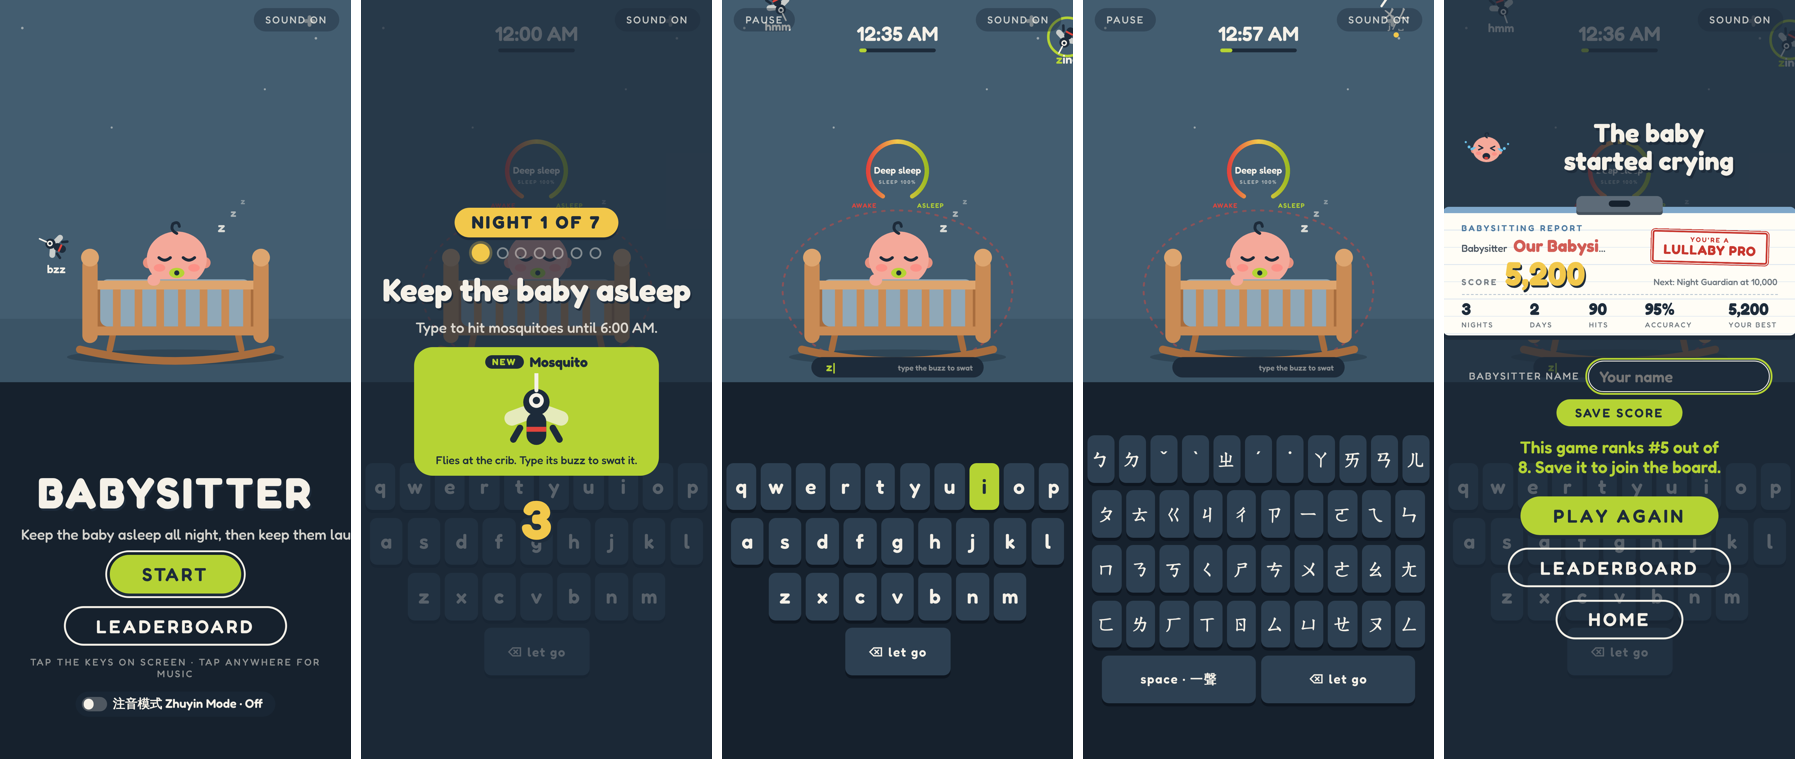
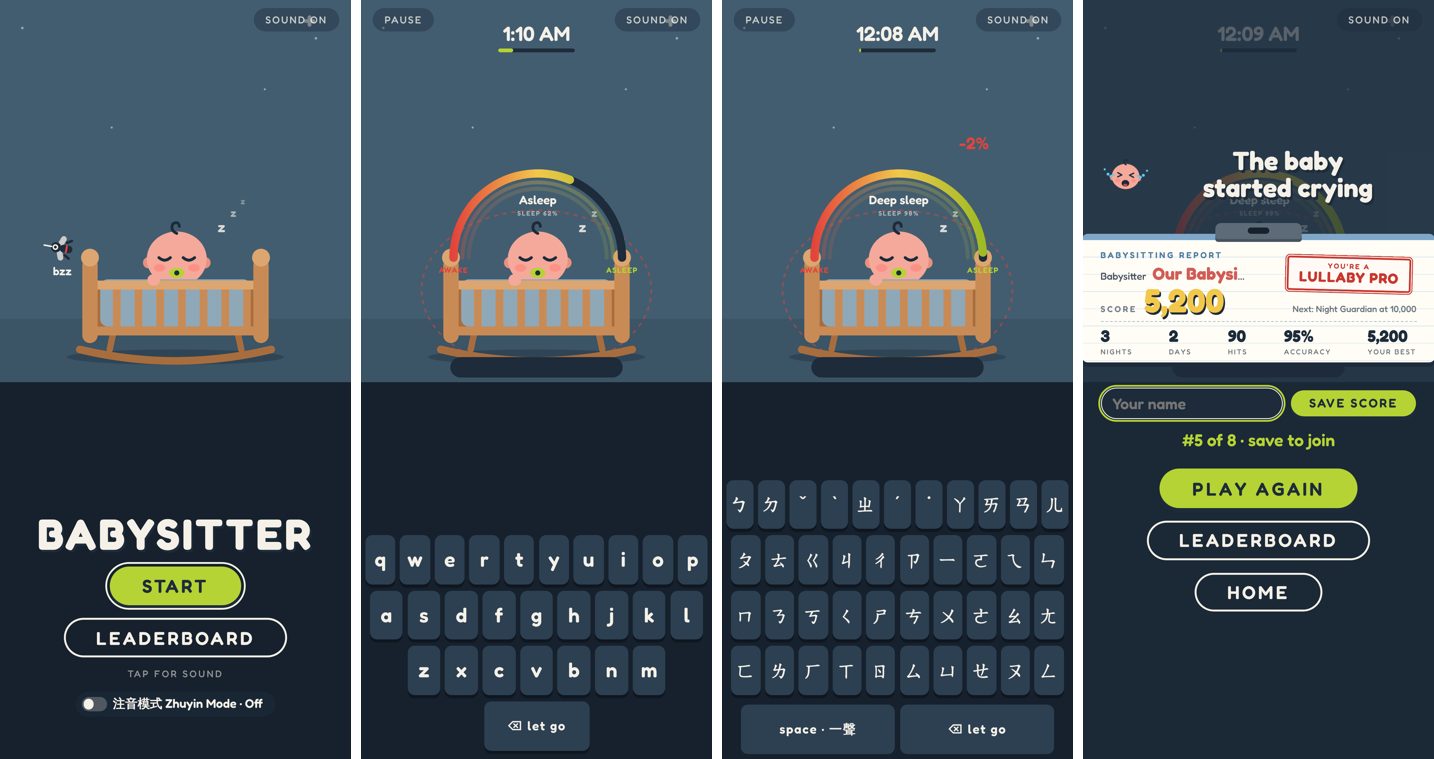
interface updated
interface updated

diff --git a/js/game.js b/js/game.js
@@ -142,13 +142,28 @@ const G = {
 };
 
 /* ---------- gauge ---------- */
-const R = 46;
+// On phones the meter is a rainbow arching over the crib; on computers it's a ring above the baby.
+const R = MOBILE ? 132 : 46;
 function arcPoint(deg) { const a = deg * Math.PI / 180; return [R * Math.cos(a), R * Math.sin(a)]; }
 function arcPath(frac) {
   frac = Math.max(0.001, Math.min(1, frac));
-  const start = 120, sweep = 300 * frac;
+  const start = MOBILE ? 180 : 120, sweep = (MOBILE ? 180 : 300) * frac;
   const [x1, y1] = arcPoint(start), [x2, y2] = arcPoint(start + sweep);
   return `M${x1.toFixed(2)} ${y1.toFixed(2)} A${R} ${R} 0 ${sweep > 180 ? 1 : 0} 1 ${x2.toFixed(2)} ${y2.toFixed(2)}`;
+}
+if (MOBILE) {
+  $('gauge').setAttribute('transform', 'translate(482 404)');
+  for (const g of ['gradNight', 'gradDay']) { $(g).setAttribute('x1', -R); $(g).setAttribute('x2', R); }
+  for (const id of ['gTrack', 'gFill']) $(id).setAttribute('stroke-width', 13);
+  // two soft inner bands make the arch read as a rainbow
+  for (const [r, op] of [[R - 14, 0.28], [R - 24, 0.16]]) {
+    const band = el('path', { d: `M${-r} 0 A${r} ${r} 0 0 1 ${r} 0`, fill: 'none', stroke: 'url(#gradDay)', 'stroke-width': 6, 'stroke-linecap': 'round', opacity: op });
+    $('gauge').insertBefore(band, $('gTrack'));
+  }
+  $('gNum').setAttribute('y', -84); $('gNum').setAttribute('font-size', 19);
+  $('gUnit').setAttribute('y', -66); $('gUnit').setAttribute('font-size', 10);
+  $('gLeft').setAttribute('x', -R); $('gLeft').setAttribute('y', 24); $('gLeft').setAttribute('font-size', 12);
+  $('gRight').setAttribute('x', R); $('gRight').setAttribute('y', 24); $('gRight').setAttribute('font-size', 12);
 }
 $('gTrack').setAttribute('d', arcPath(1));
 
@@ -208,7 +223,7 @@ function setZhuyin(on) {
 }
 function titleHintText() {
   const best = store.get('babysitter-best2');
-  $('titleHint').textContent = best ? `Your best: ${best.score}` : (MOBILE ? 'Tap the keys on screen' : 'Keyboard needed');
+  $('titleHint').textContent = best ? `Your best: ${best.score}` : (MOBILE ? '' : 'Keyboard needed');
 }
 
 /* ---------- entities ---------- */
@@ -460,7 +475,7 @@ function defeat(e) {
 
 /* ---------- flow ---------- */
 function show(id) {
-  document.body.classList.toggle('on-title', id === 'scrTitle');
+  document.body.classList.toggle('on-title', ['scrTitle', 'scrOver', 'scrBoard', 'scrPause'].includes(id));
   for (const s of ['scrTitle', 'scrCard', 'scrPause', 'scrOver', 'scrBoard']) $(s).hidden = s !== id;
   const playing = id === null;
   $('btnPause').hidden = !(playing || id === 'scrPause');
@@ -816,7 +831,9 @@ function showSaveArea() {
     return;
   }
   const say = (rank, total) => {
-    line.textContent = G.saved
+    line.textContent = MOBILE
+      ? (G.saved ? `You're #${rank} of ${total}!` : `#${rank} of ${total} · save to join`)
+      : G.saved
       ? `You're the #${rank} babysitter out of ${total}.`
       : `This game ranks #${rank} out of ${total}. Save it to join the board.`;
   };
@@ -1100,6 +1117,7 @@ function buildPad() {
   box.append(last);
 }
 function padPress(k, btn) {
+  unlockAudio();
   btn.classList.add('down'); setTimeout(() => btn.classList.remove('down'), 90);
   if (G.screen !== 'play') return;
   if (k === 'back') releaseTarget(); else typeChar(k);
@@ -1125,6 +1143,15 @@ function updatePad() {   // the next key of the locked pest lights up; first key
 }
 
 ['pointerdown', 'keydown', 'touchstart'].forEach(ev => document.addEventListener(ev, () => { music.start(); clips.get('cryData'); clips.get('popData'); clips.get('slapData'); }, { once: true }));
+// Phones only allow sound after a real tap (iPhone counts touchend and click, not touchstart), so keep trying until it runs.
+try { if (navigator.audioSession) navigator.audioSession.type = 'playback'; } catch {}   // iPhone: play even when the ring switch is on silent
+function unlockAudio() {
+  if (!sound.on) return;
+  sound.init(); if (!sound.ctx) return;
+  if (sound.ctx.state !== 'running') sound.ctx.resume().catch(() => {});
+  music.start(); clips.get('popData'); clips.get('slapData'); clips.get('cryData');
+}
+['touchend', 'click', 'pointerup', 'keydown'].forEach(ev => document.addEventListener(ev, unlockAudio, { passive: true }));
 $('btnZhuyin').addEventListener('click', () => setZhuyin(!ZH.on));
 $('btnStart').addEventListener('click', () => { hideIdle(); newGame(); });
 $('btnAgain').addEventListener('click', newGame);
@@ -1164,8 +1191,8 @@ document.addEventListener('visibilitychange', () => { if (document.hidden) pause
   if (document.readyState === 'loading') document.addEventListener('DOMContentLoaded', startMusic); else startMusic();
   const hint = () => {
     const waiting = sound.on && sound.ctx && sound.ctx.state !== 'running';
-    const base = MOBILE ? 'Tap the keys on screen' : 'Keyboard needed';
-    $('titleHint').textContent = waiting ? base + (MOBILE ? ' · Tap anywhere for music' : ' · Click anywhere for music') : base;
+    if (MOBILE) { $('titleHint').textContent = waiting ? 'Tap for sound' : ''; return; }
+    $('titleHint').textContent = waiting ? 'Keyboard needed · Click anywhere for music' : 'Keyboard needed';
   };
   hint(); document.addEventListener('DOMContentLoaded', () => { hint(); sound.ctx?.addEventListener('statechange', hint); });
   requestAnimationFrame(frame);

diff --git a/css/style.css b/css/style.css
@@ -207,14 +207,15 @@ body.mobile .stage {
   box-shadow: 0 0 0 10px #2a3644, 0 20px 60px rgb(0 0 0 / 0.5);
   display: flex; flex-direction: column; background: var(--frame);
 }
-body.mobile .stage > svg { width: 100%; height: auto; aspect-ratio: 550 / 600; flex: none; }
+body.mobile .stage > svg { width: 100%; height: auto; aspect-ratio: 550 / 600; flex: 0 1 auto; min-height: 0; max-height: 60dvh; }
 body.mobile #pad {
-  display: flex; flex: 1; flex-direction: column; justify-content: center; gap: 2.2cqw;
-  padding: 2cqw 1.2cqw calc(3cqw + env(safe-area-inset-bottom));
+  display: flex; flex: 1 1 0; min-height: 0; flex-direction: column; justify-content: flex-end; gap: 1.8cqw;
+  padding: 2cqw 1.2cqw calc(2.4cqw + env(safe-area-inset-bottom));
 }
-.pad-row { display: flex; gap: 1.3cqw; justify-content: center; }
+body.mobile, body.mobile * { -webkit-touch-callout: none; }
+.pad-row { display: flex; flex: 1 1 0; min-height: 0; max-height: 14cqw; gap: 1.3cqw; justify-content: center; }
 .pad-key {
-  flex: 1; max-width: 9.4cqw; height: 13.5cqw; padding: 0; border: 0; border-radius: 2cqw;
+  flex: 1; max-width: 9.4cqw; height: auto; min-height: 0; padding: 0; border: 0; border-radius: 2cqw;
   background: #2d4052; color: var(--cream); font: 600 5.8cqw/1 var(--font); box-shadow: 0 0.9cqw 0 #0e1620;
   touch-action: manipulation; -webkit-tap-highlight-color: transparent; user-select: none; -webkit-user-select: none;
 }
@@ -238,3 +239,7 @@ body.mobile #hudLabel { display: none; }
 body.mobile .overlay > p { max-width: calc(88vw / 2.2); }
 body.mobile #scrTitle { justify-content: flex-end; padding-bottom: calc(12cqw + env(safe-area-inset-bottom)); }
 body.mobile.on-title #pad { visibility: hidden; }
+/* fewer words on a small screen */
+body.mobile #scrTitle > p, body.mobile #zhNote, body.mobile #cardBody, body.mobile #typeHint,
+body.mobile #scrOver .save label, body.mobile #boardNote, body.mobile #scrPause .small { display: none !important; }
+body.mobile #titleHint:empty { display: none; }
